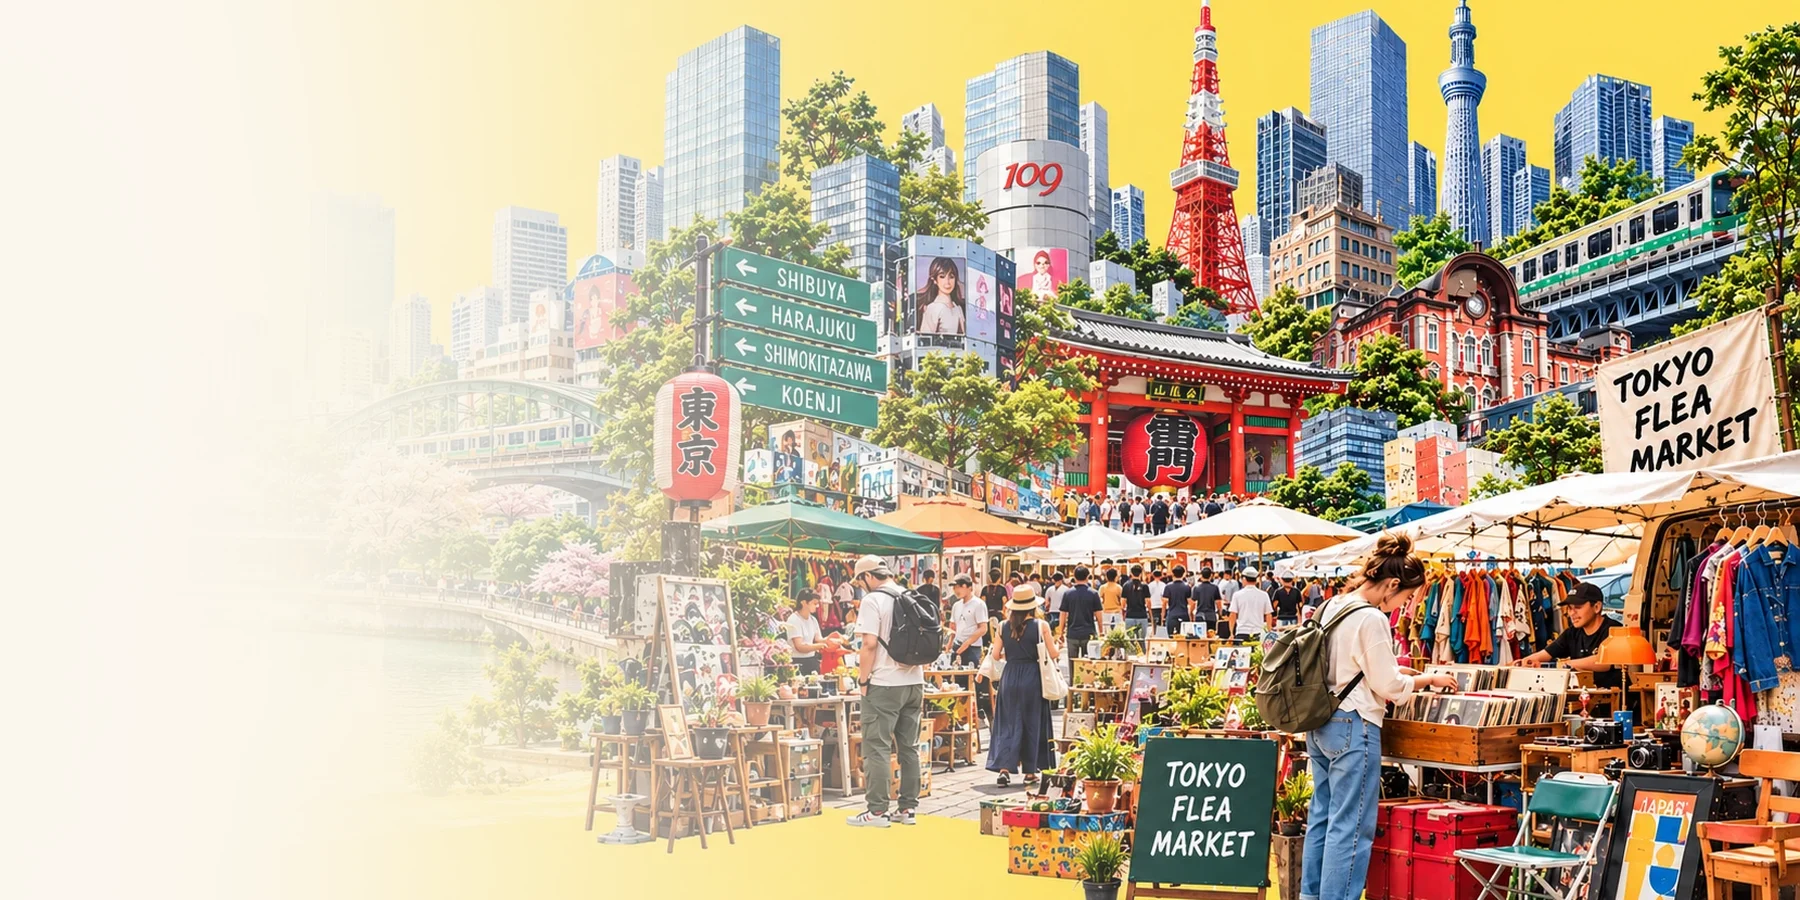
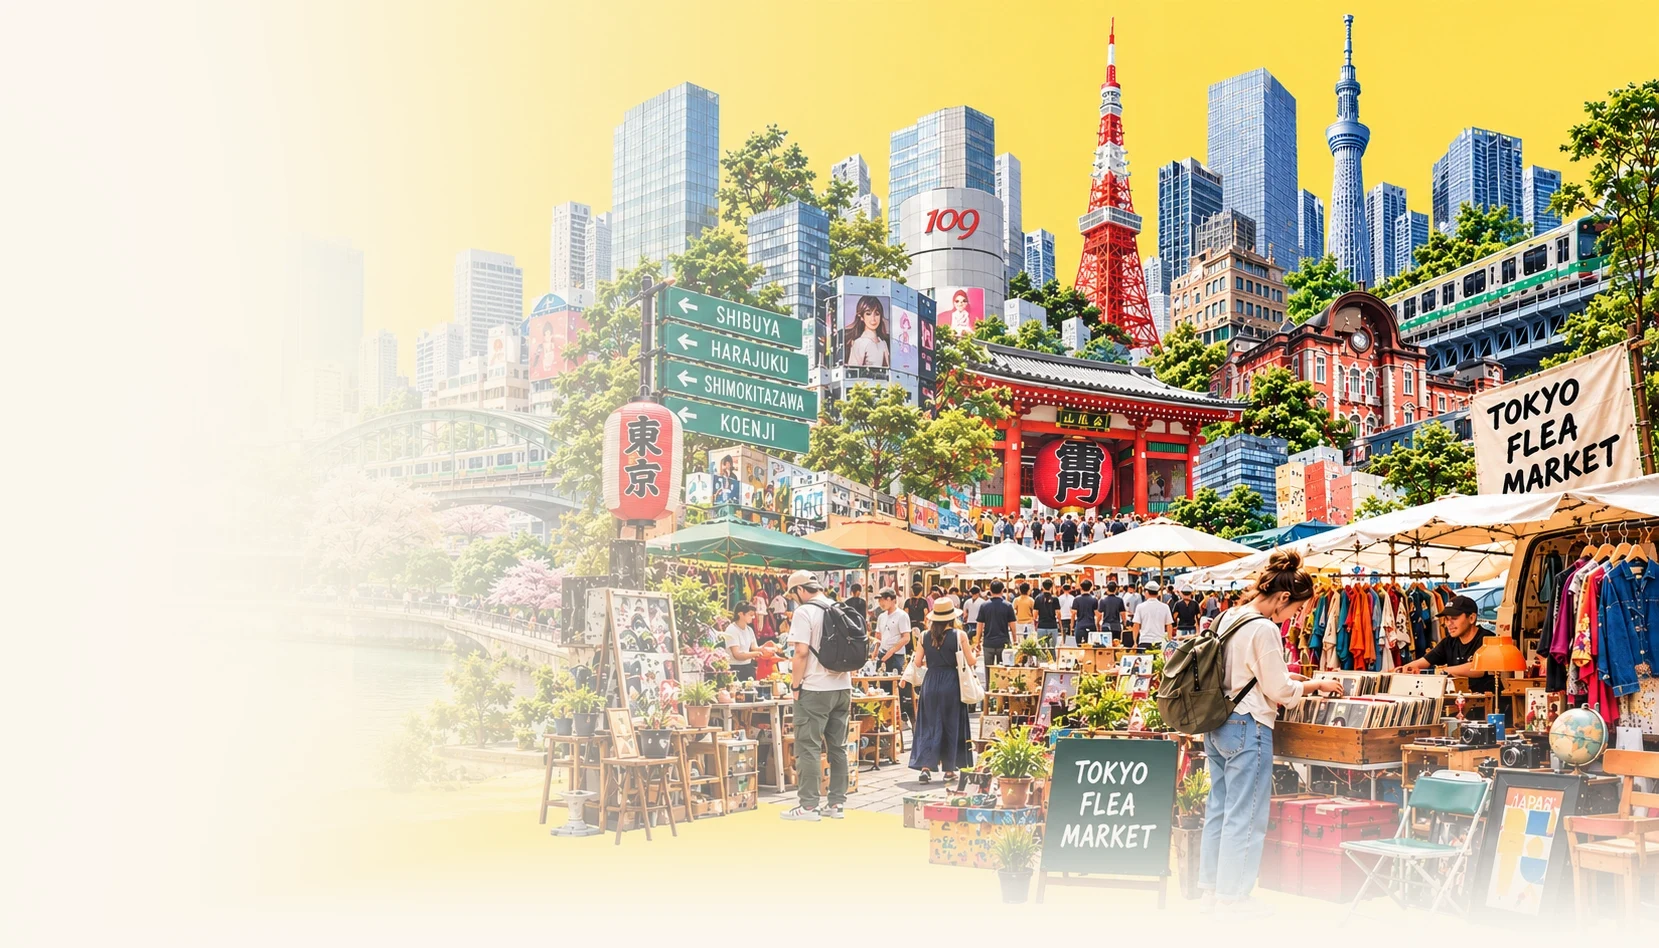
HERO の3枚目を等倍（ネイティブの大きさ）で表示し、下側もクリーム色へ溶かす。スマホは従来どおり全幅。出典は運営者の AI 作成として記録
Claude-Session: https://claude.ai/code/session_017Yx5Wn5sjwL1UNzUh6z4bo

diff --git a/static/home.css b/static/home.css
@@ -4,6 +4,8 @@
 .hero2{position:relative;background:var(--hm-cream);overflow:hidden;isolation:isolate}
 .hero2-photo{position:absolute;inset:0;z-index:-1}
 .hero2-photo img{display:block;width:100%;height:100%;object-fit:cover;object-position:100% 40%}
+/* 3枚目は、拡大・縮小せず等倍（ネイティブの大きさ）で切り出す */
+.hero2-photo img.hp-alt[src$="hero-3.webp"]{object-fit:none;object-position:100% 30%}
 .hero2-photo::after{content:"";position:absolute;inset:0;background:linear-gradient(90deg,rgba(251,247,239,.98) 0,rgba(251,247,239,.93) 28%,rgba(251,247,239,.45) 47%,rgba(251,247,239,0) 63%)}
 .hero2-in{width:100%;box-sizing:border-box;max-width:1240px;margin:0 auto;padding:44px 28px 40px;position:relative}
 .hero2-copy{max-width:680px}
@@ -37,6 +39,7 @@
   .hero2{display:flex;flex-direction:column}
   .hero2-photo{position:relative;inset:auto;height:112px;z-index:0}
   .hero2-photo img{object-position:92% 30%}
+  .hero2-photo img.hp-alt[src$="hero-3.webp"]{object-fit:cover;object-position:92% 30%}
   .hero2-photo::after{background:linear-gradient(180deg,rgba(251,247,239,0) 52%,var(--hm-cream) 100%)}
   .hero2-in{padding:0 16px 22px;margin-top:-18px;min-height:0}
   .hero2 h1{font-size:clamp(30px,8.6vw,38px)}
